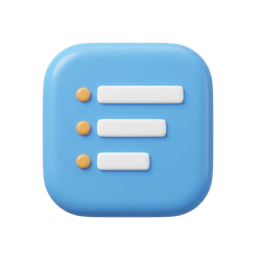
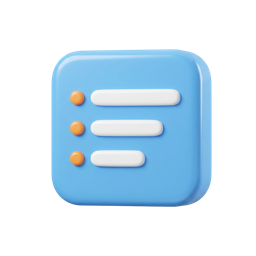
Mobilny v2: ikony zakładek bez cienia kontaktowego i na wprost, luźniejszy kadr twarzy trenera

Changed region(s): [[0.1562, 0.1562, 0.8438, 0.875], [0.25, 0.4688, 0.6875, 0.6875], [0.25, 0.3125, 0.75, 0.4688]]

diff --git a/src/m/m.css b/src/m/m.css
@@ -284,9 +284,7 @@ button.m-row:active {
   width: 100%;
   height: 100%;
   object-fit: cover;
-  object-position: center 20%;
-  transform: scale(1.15);
-  transform-origin: center 30%;
+  object-position: center center;
 }
 .m-fab:active {
   transform: scale(0.94);
